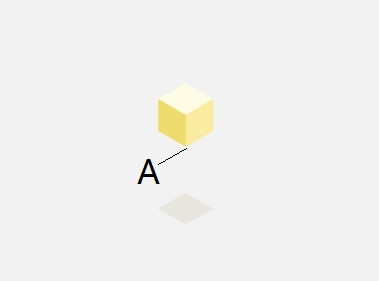
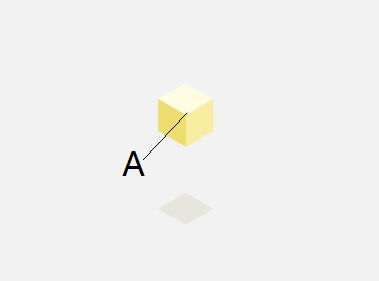
完善文档

Changed region(s): [[0.3193, 0.5409, 0.4354, 0.6548], [0.4354, 0.5409, 0.4644, 0.5694]]

diff --git a/README.md b/README.md
@@ -1,2 +1,19 @@
 # and_cube_progress
 正方体样式的loadingView
+
+在[dribbble上看到的一个gif效果](https://dribbble.com/shots/1927432-PCPP-Loading-Boxes-Update)，觉得还不错。主要用动画控制，思路还是比较简单的。
+![image](http://ww2.sinaimg.cn/mw690/88120a10gw1f9wp5p7kn9g20b408cwkn.gif) 
+
+## 思路   
+
+
+ 1. 先要确定一个正方体如何画，由图可以看出来一个正方体有三部分组成，上部分（色值#FDFDE3）、左下部分（色值#EEDC70）和右下部分（色值#FAECA4）  
+  ![image](https://raw.githubusercontent.com/XBeats/and_cube_progress/master/screenshot/one_cube.png)  
+ 2. 这三个部分其实都是一个四边相等的平行四边形（菱形），这里用path来确定每个的四边形，然后通过Canvas的变换，分配各个四边形到各自的位置，就能行成一个正方体的样式
+ 3. 接下来就是要确定每个正方体的移动轨迹，就是一个选择参考点的过程，如图中选择每个正方体中的A点作为参考点，控制A点的移动，就能达到整体的移动效果  
+ ![image](https://raw.githubusercontent.com/XBeats/and_cube_progress/master/screenshot/one_cube_a.png)
+ 4. 阴影部分其实和上部分一致，只是位置移动到了正方体的下面，处理起来还是比较简单的
+
+## 效果图  
+![image](https://raw.githubusercontent.com/XBeats/and_cube_progress/master/screenshot/cube_progress.gif)
+
